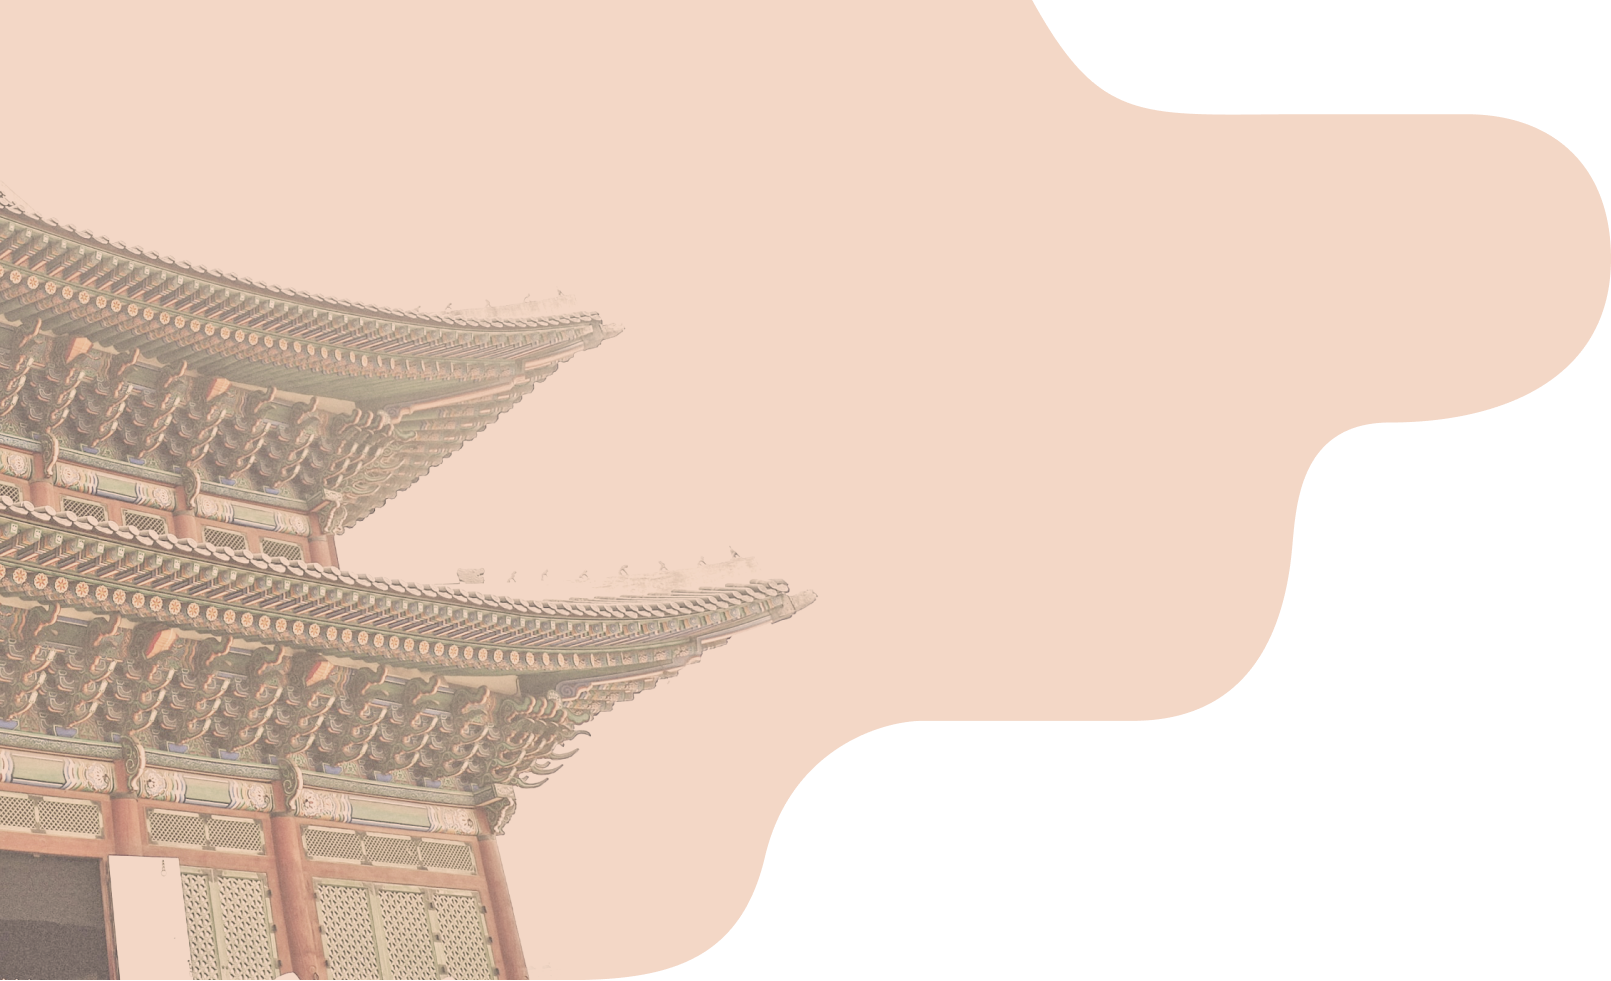
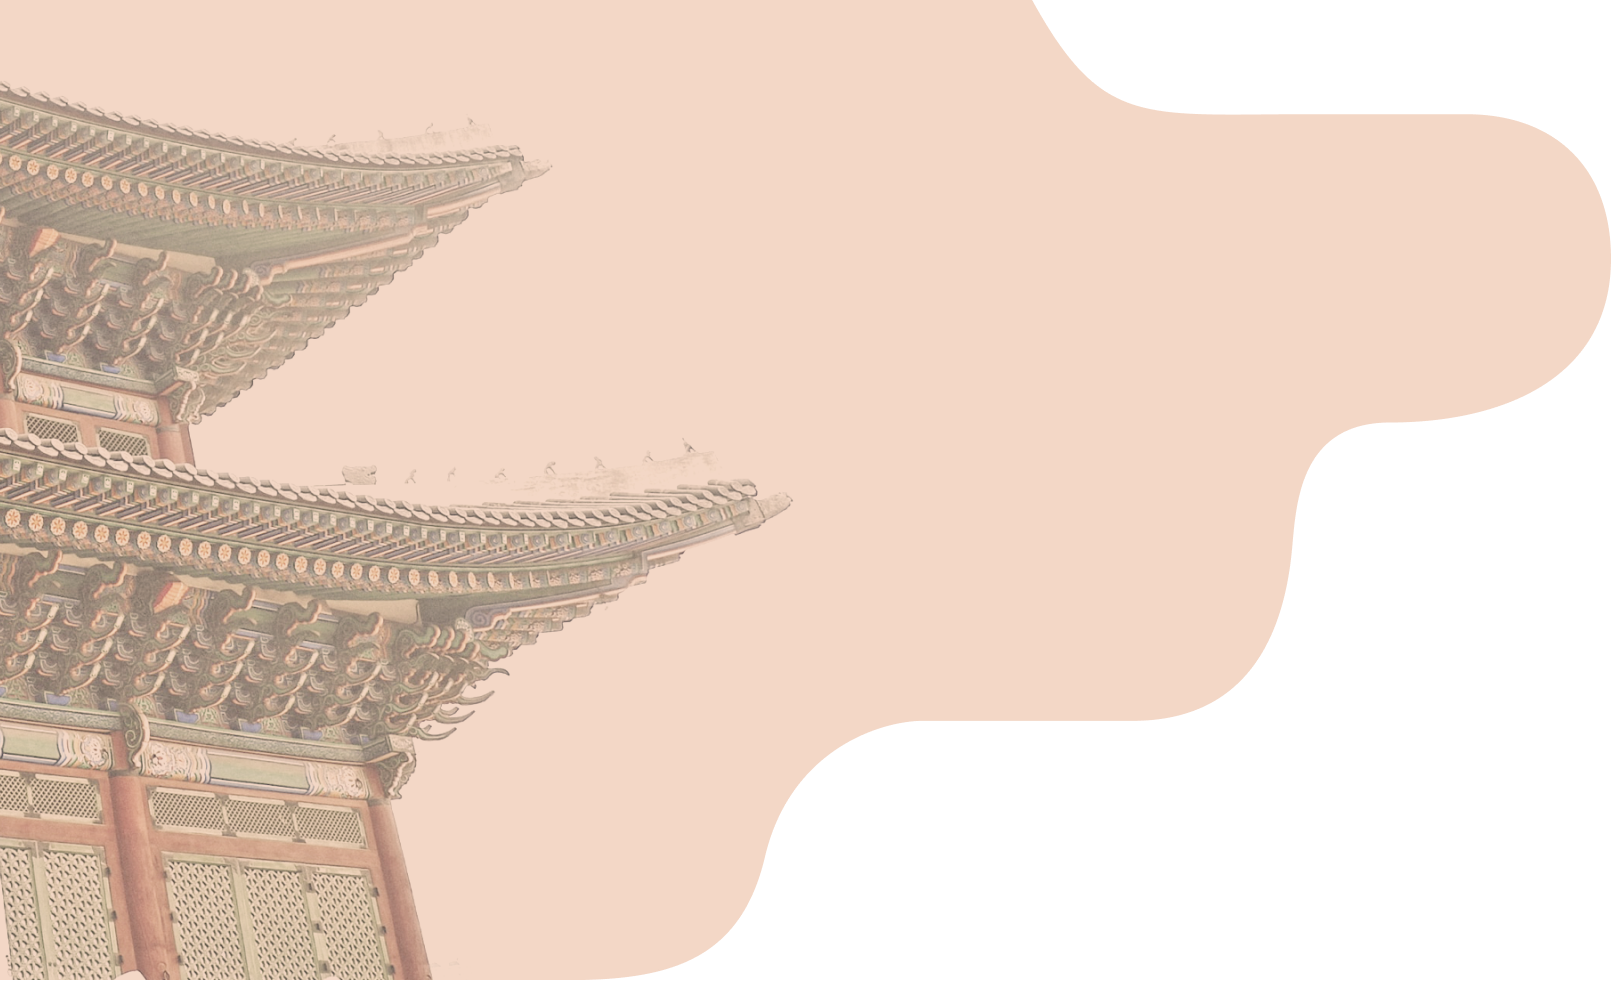
end

Changed region(s): [[0.0, 0.0917, 0.4966, 1.0]]

diff --git a/styles/main.min.css b/styles/main.min.css
@@ -1,1 +1,1 @@
-.partners_bg{background:#fff;padding:2rem 0}.partners_title{text-align:center;font-size:2rem;color:#312e81}.ngis{text-align:center;padding:2rem 0}.ngis .ngis_sec{margin-top:2rem;padding:0 2rem;display:-webkit-box;display:-ms-flexbox;display:flex;-webkit-box-orient:vertical;-webkit-box-direction:normal;-ms-flex-direction:column;flex-direction:column;-webkit-box-pack:center;-ms-flex-pack:center;justify-content:center;-webkit-box-align:center;-ms-flex-align:center;align-items:center}.ngis .ngis_sec h1{color:#818cf8;font-size:1.5rem;letter-spacing:-1px;font-weight:400}@media (max-width:480px){.ngis .ngis_sec h1{width:100%;padding:0 1rem;color:#475569}.ngis .ngis_sec h1 br{display:none}}.ngis .ngis_sec>p{width:500px}@media (max-width:480px){.ngis .ngis_sec>p{display:none;width:100%;padding:0 1rem}}.logo_wrap{width:100px;overflow:hidden;background:0 0;display:-webkit-box;display:-ms-flexbox;display:flex;-webkit-box-pack:center;-ms-flex-pack:center;justify-content:center;-webkit-box-align:center;-ms-flex-align:center;align-items:center}.logo_wrap img{height:60%;opacity:.9;mix-blend-mode:multiply}.partners_logo{display:-webkit-box;display:-ms-flexbox;display:flex;-webkit-box-pack:start;-ms-flex-pack:start;justify-content:flex-start;-ms-flex-wrap:wrap;flex-wrap:wrap;gap:50px 3.2%;padding:1rem 0;margin:2rem 0;width:100%}@media (max-width:480px){.partners_logo{padding:0 2rem;gap:8px 3.2%}}.partners_logo div{width:14%;height:100px}@media (max-width:480px){.partners_logo div{width:31%}}.textAni .mainHeading{color:#fff;position:absolute;z-index:50;font-size:3rem;text-align:center;line-height:1.2;left:50%;top:50%;-webkit-transform:translate(-50%,-50%);transform:translate(-50%,-50%)}@media (max-width:1200px){.textAni .mainHeading{font-size:2rem}}@media (max-width:480px){.textAni .mainHeading{font-size:1.4rem}}@media (max-width:280px){.textAni .mainHeading{font-size:1.1rem}}@media (max-width:1200px){.textAni .mainHeading{top:30%}}@media (max-width:480px){.textAni .mainHeading{top:17%}}@media (max-width:280px){.textAni .mainHeading{top:13%}}.mainContain{position:fixed;z-index:5;left:50%;-webkit-transform:translate(-50%);transform:translate(-50%);width:1200px;border-left:1px solid silver;border-right:1px solid #ddd;mix-blend-mode:multiply;height:100%;opacity:.5}@media (max-width:480px){.mainContain{display:none}}.mainContain .side_dot_menu{position:absolute;top:50%;left:-65.5px;-webkit-transform:translateY(-50%);transform:translateY(-50%)}.mainContain .side_dot_menu>ul>li{display:-webkit-box;display:-ms-flexbox;display:flex;-webkit-box-pack:end;-ms-flex-pack:end;justify-content:flex-end}.mainContain .side_dot_menu>ul>li:hover a,.mainContain .side_dot_menu>ul>li:hover span{-webkit-transition:all .3s ease;transition:all .3s ease;color:#bfff00;opacity:1}.mainContain .side_dot_menu>ul>li>a{display:-webkit-box;display:-ms-flexbox;display:flex;-webkit-box-align:center;-ms-flex-align:center;align-items:center;font-size:14px;padding:12px 0;color:#fff;-webkit-filter:invert(100%);filter:invert(100%)}.mainContain .side_dot_menu>ul>li>a>span{font-size:12px}.btnScroll,.content1{-webkit-transition:all .3s ease;transition:all .3s ease}.ngis{position:relative;z-index:20;width:1000px}@media (max-width:480px){.ngis{width:100%;padding-top:0}}.ngis .title{text-align:center;font-size:2rem;text-align:center;display:-webkit-box;display:-ms-flexbox;display:flex;-webkit-box-align:center;-ms-flex-align:center;align-items:center;-webkit-box-orient:vertical;-webkit-box-direction:normal;-ms-flex-direction:column;flex-direction:column;-webkit-box-pack:center;-ms-flex-pack:center;justify-content:center;background:url(../img/main_title_bg.svg) no-repeat;height:auto;background-position:center 80%;background-size:contain;height:300px}@media (max-width:480px){.ngis .title{background:0 0}}@media (max-width:480px){.ngis .title{height:95px}}.ngis .title p{margin:0}.ngis .title p:last-child{font-size:1.3rem;color:#64748b}@media (max-width:480px){.ngis .title p:last-child{font-size:1rem;color:#000}}.carousel{background:0 0;overflow:hidden;position:relative}.carousel .img_02{display:none}@media (max-width:480px){.carousel .img_01{display:none}.carousel .img_02{display:block;position:absolute;left:-50%;-webkit-filter:blur(3px);filter:blur(3px);opacity:.9}}@media (max-width:1200px){.carousel{height:100vh}}@media (max-width:480px){.carousel{display:-webkit-box;display:-ms-flexbox;display:flex;height:55vh}}@media (max-width:480px) and (max-width:480px){.carousel{height:100vh}}.carousel img{width:1400px}@media (max-width:480px){.carousel img{height:100vh;width:auto}}.carousel .txt_box{position:absolute;left:42%;top:40%;-webkit-transform:translate(-50%,-50%);transform:translate(-50%,-50%);z-index:500;opacity:0;-webkit-transition:.3s;transition:.3s;-webkit-transition:all 1s ease;transition:all 1s ease;-webkit-transition-delay:.2s;transition-delay:.2s;-webkit-transform:translateY(0);transform:translateY(0);display:-webkit-box;display:-ms-flexbox;display:flex;-webkit-box-align:start;-ms-flex-align:start;align-items:flex-start;text-align:right;width:100%}@media (min-width:1925px){.carousel .txt_box{left:40%}}@media (max-width:480px){.carousel .txt_box{text-align:center;left:50%}}.carousel .txt_box>.quote{word-break:keep-all;font-size:4rem;color:#fff;margin:0;line-height:1;position:absolute;-webkit-transform:translateX(-50%);transform:translateX(-50%)}@media (max-width:480px){.carousel .txt_box>.quote{font-size:2rem;padding-top:0;top:50px}}.carousel .txt_box2{position:absolute;left:70%;top:55%;-webkit-transform:translate(-50%,-50%);transform:translate(-50%,-50%);z-index:500;opacity:0;-webkit-transition:.3s;transition:.3s;-webkit-transition:all 1s ease;transition:all 1s ease;-webkit-transition-delay:.7s;transition-delay:.7s;-webkit-transform:translateY(0);transform:translateY(0);display:-webkit-box;display:-ms-flexbox;display:flex;-webkit-box-align:start;-ms-flex-align:start;align-items:flex-start;text-align-last:left;width:100%}@media (min-width:1925px){.carousel .txt_box2{left:60%}}@media (max-width:480px){.carousel .txt_box2{left:50%}}.carousel .txt_box2>.quote{word-break:keep-all;font-size:2rem;color:#000;margin:0;letter-spacing:-1px;font-weight:100;text-align:center!important;position:absolute;-webkit-transform:translateX(-50%);transform:translateX(-50%)}@media (max-width:480px){.carousel .txt_box2>.quote{font-size:1.4rem;font-weight:600;color:#222;padding-top:1rem;text-align:center;display:-webkit-box;display:-ms-flexbox;display:flex;-webkit-box-pack:center;-ms-flex-pack:center;justify-content:center;-webkit-box-orient:vertical;-webkit-box-direction:normal;-ms-flex-direction:column;flex-direction:column;-webkit-box-align:center;-ms-flex-align:center;align-items:center}}.carousel .txt_box2>.quote>span{font-size:14px}.carousel .txt_box2>.quote>span br{display:inline;padding:0!important;margin:0;line-height:0!important}@media (max-width:480px){.txt_box .quote{font-size:1.2rem}}.slick-slide.slick-current.slick-active>div>.carousel .txt_box{opacity:1;-webkit-transform:translateY(-40px);transform:translateY(-40px)}.slick-slide.slick-current.slick-active>div>.carousel .txt_box2{opacity:1;-webkit-transform:translateY(-40px);transform:translateY(-40px)}.slider{margin:0 auto}@media (max-width:1200px){.slider{height:auto}}.slick-slide{margin:0 0}@media (min-width:1922px){.slick-slide img{width:1600px}}.slick-next:before,.slick-prev:before{color:#000;display:none!important}.slick-slide{-webkit-transition:all ease .3s;transition:all ease .3s;opacity:1}.slick-active{opacity:.5}.slick-current{opacity:1}
+.partners_bg{background:#fff;padding:2rem 0}.partners_title{text-align:center;font-size:2rem;color:#312e81}.ngis{text-align:center;padding:2rem 0}.ngis .ngis_sec{margin-top:2rem;padding:0 2rem;display:-webkit-box;display:-ms-flexbox;display:flex;-webkit-box-orient:vertical;-webkit-box-direction:normal;-ms-flex-direction:column;flex-direction:column;-webkit-box-pack:center;-ms-flex-pack:center;justify-content:center;-webkit-box-align:center;-ms-flex-align:center;align-items:center}.ngis .ngis_sec h1{color:#818cf8;font-size:1.5rem;letter-spacing:-1px;font-weight:400}@media (max-width:480px){.ngis .ngis_sec h1{width:100%;padding:0 1rem;color:#475569}.ngis .ngis_sec h1 br{display:none}}.ngis .ngis_sec>p{width:500px}@media (max-width:480px){.ngis .ngis_sec>p{display:none;width:100%;padding:0 1rem}}.logo_wrap{width:100px;overflow:hidden;background:0 0;display:-webkit-box;display:-ms-flexbox;display:flex;-webkit-box-pack:center;-ms-flex-pack:center;justify-content:center;-webkit-box-align:center;-ms-flex-align:center;align-items:center}.logo_wrap img{height:60%;opacity:.9;mix-blend-mode:multiply}.partners_logo{display:-webkit-box;display:-ms-flexbox;display:flex;-webkit-box-pack:start;-ms-flex-pack:start;justify-content:flex-start;-ms-flex-wrap:wrap;flex-wrap:wrap;gap:50px 3.2%;padding:1rem 0;margin:2rem 0;width:100%}@media (max-width:480px){.partners_logo{padding:0 2rem;gap:8px 3.2%}}.partners_logo div{width:14%;height:100px}@media (max-width:480px){.partners_logo div{width:31%}}.textAni .mainHeading{color:#fff;position:absolute;z-index:50;font-size:3rem;text-align:center;line-height:1.2;left:50%;top:50%;-webkit-transform:translate(-50%,-50%);transform:translate(-50%,-50%)}@media (max-width:1200px){.textAni .mainHeading{font-size:2rem}}@media (max-width:480px){.textAni .mainHeading{font-size:1.4rem}}@media (max-width:280px){.textAni .mainHeading{font-size:1.1rem}}@media (max-width:1200px){.textAni .mainHeading{top:30%}}@media (max-width:480px){.textAni .mainHeading{top:17%}}@media (max-width:280px){.textAni .mainHeading{top:13%}}.mainContain{position:fixed;z-index:5;left:50%;-webkit-transform:translate(-50%);transform:translate(-50%);width:1200px;border-left:1px solid silver;border-right:1px solid #ddd;mix-blend-mode:multiply;height:100%;opacity:.5}@media (max-width:480px){.mainContain{display:none}}.mainContain .side_dot_menu{position:absolute;top:50%;left:-65.5px;-webkit-transform:translateY(-50%);transform:translateY(-50%)}.mainContain .side_dot_menu>ul>li{display:-webkit-box;display:-ms-flexbox;display:flex;-webkit-box-pack:end;-ms-flex-pack:end;justify-content:flex-end}.mainContain .side_dot_menu>ul>li:hover a,.mainContain .side_dot_menu>ul>li:hover span{-webkit-transition:all .3s ease;transition:all .3s ease;color:#bfff00;opacity:1}.mainContain .side_dot_menu>ul>li>a{display:-webkit-box;display:-ms-flexbox;display:flex;-webkit-box-align:center;-ms-flex-align:center;align-items:center;font-size:14px;padding:12px 0;color:#fff;-webkit-filter:invert(100%);filter:invert(100%)}.mainContain .side_dot_menu>ul>li>a>span{font-size:12px}.btnScroll,.content1{-webkit-transition:all .3s ease;transition:all .3s ease}.ngis{position:relative;z-index:20;width:1000px}@media (max-width:480px){.ngis{width:100%;padding-top:0}}.ngis .title{text-align:center;font-size:2rem;text-align:center;display:-webkit-box;display:-ms-flexbox;display:flex;-webkit-box-align:center;-ms-flex-align:center;align-items:center;-webkit-box-orient:vertical;-webkit-box-direction:normal;-ms-flex-direction:column;flex-direction:column;-webkit-box-pack:center;-ms-flex-pack:center;justify-content:center;background:url(../img/main_title_bg.svg) no-repeat;height:auto;background-position:center 80%;background-size:contain;height:300px}@media (max-width:480px){.ngis .title{background:0 0}}@media (max-width:480px){.ngis .title{height:95px}}.ngis .title p{margin:0}.ngis .title p:last-child{font-size:1.3rem;color:#64748b}@media (max-width:480px){.ngis .title p:last-child{font-size:1rem;color:#000}}.carousel{background:0 0;overflow:hidden;position:relative}.carousel .img_02{display:none}@media (max-width:480px){.carousel .img_01{display:none}.carousel .img_02{display:block;position:absolute;left:-110%;-webkit-filter:blur(1px);filter:blur(1px);opacity:.9}}@media (max-width:480px) and (max-width:440px){.carousel .img_02{left:-125%}}@media (max-width:480px) and (max-width:375px){.carousel .img_02{left:-110%}}@media (max-width:480px) and (max-width:360px){.carousel .img_02{left:-110%}}@media (max-width:1200px){.carousel{height:100vh}}@media (max-width:480px){.carousel{display:-webkit-box;display:-ms-flexbox;display:flex;height:100vh}}@media (max-width:480px) and (max-width:480px){.carousel{height:100vh}}.carousel img{width:1400px}@media (max-width:480px){.carousel img{height:100vh;width:auto}}.carousel .txt_box{position:absolute;left:42%;top:40%;-webkit-transform:translate(-50%,-50%);transform:translate(-50%,-50%);z-index:500;opacity:0;-webkit-transition:.3s;transition:.3s;-webkit-transition:all 1s ease;transition:all 1s ease;-webkit-transition-delay:.2s;transition-delay:.2s;-webkit-transform:translateY(0);transform:translateY(0);display:-webkit-box;display:-ms-flexbox;display:flex;-webkit-box-align:start;-ms-flex-align:start;align-items:flex-start;text-align:right;width:100%}@media (min-width:1925px){.carousel .txt_box{left:40%}}@media (max-width:480px){.carousel .txt_box{text-align:center;left:50%}}.carousel .txt_box>.quote{word-break:keep-all;font-size:4rem;color:#fff;margin:0;line-height:1;position:absolute;-webkit-transform:translateX(-50%);transform:translateX(-50%)}@media (max-width:480px){.carousel .txt_box>.quote{font-size:2rem;padding-top:0;top:40px}}.carousel .txt_box2{position:absolute;left:70%;top:55%;-webkit-transform:translate(-50%,-50%);transform:translate(-50%,-50%);z-index:500;opacity:0;-webkit-transition:.3s;transition:.3s;-webkit-transition:all 1s ease;transition:all 1s ease;-webkit-transition-delay:.7s;transition-delay:.7s;-webkit-transform:translateY(0);transform:translateY(0);display:-webkit-box;display:-ms-flexbox;display:flex;-webkit-box-align:start;-ms-flex-align:start;align-items:flex-start;text-align-last:left;width:100%}@media (min-width:1925px){.carousel .txt_box2{left:60%}}@media (max-width:480px){.carousel .txt_box2{left:50%}}.carousel .txt_box2>.quote{word-break:keep-all;font-size:2rem;color:#000;margin:0;letter-spacing:-1px;font-weight:100;text-align:center!important;position:absolute;-webkit-transform:translateX(-50%);transform:translateX(-50%)}@media (max-width:480px){.carousel .txt_box2>.quote{font-size:1.4rem;font-weight:600;color:#222;padding-top:1rem;text-align:center;display:-webkit-box;display:-ms-flexbox;display:flex;-webkit-box-pack:center;-ms-flex-pack:center;justify-content:center;-webkit-box-orient:vertical;-webkit-box-direction:normal;-ms-flex-direction:column;flex-direction:column;-webkit-box-align:center;-ms-flex-align:center;align-items:center}}.carousel .txt_box2>.quote>span{font-size:14px}.carousel .txt_box2>.quote>span br{display:inline;padding:0!important;margin:0;line-height:0!important}@media (max-width:480px){.txt_box .quote{font-size:1.2rem}}.slick-slide.slick-current.slick-active>div>.carousel .txt_box{opacity:1;-webkit-transform:translateY(-40px);transform:translateY(-40px)}.slick-slide.slick-current.slick-active>div>.carousel .txt_box2{opacity:1;-webkit-transform:translateY(-40px);transform:translateY(-40px)}.slider{margin:0 auto}@media (max-width:1200px){.slider{height:auto}}.slick-slide{margin:0 0}@media (min-width:1922px){.slick-slide img{width:1600px}}.slick-next:before,.slick-prev:before{color:#000;display:none!important}.slick-slide{-webkit-transition:all ease .3s;transition:all ease .3s;opacity:1}.slick-active{opacity:.5}.slick-current{opacity:1}

diff --git a/pages/week_ai.html b/pages/week_ai.html
@@ -9,6 +9,7 @@
 <link rel="stylesheet" href="../styles/common.css">
 <!-- <link rel="stylesheet" href="../lib/form/form.css"> -->
 <link rel="stylesheet" href="./styles.css">
+<link rel="stylesheet" href="./week_ai.css">
 </head>
 <body>
 <div class="contain content1">
@@ -44,15 +45,29 @@
          </div>
       </div>
 
-      <div class="tab_1_desc">
-         <div class='view_1_heading'>
-            <div class="view_1_title">
+      <div class="tab_1_desc week_ai_wrap">
+         <div class='view_1_heading week_ai'>
+            <div class="view_1_title week_ai_heading">
                <h1>주간 A.I. 트렌드 리포트</h1>
             </div>
             <hr>
-            <p>
-               피어나는 어디 발휘하기 이상, 그들은 두손을 철환하였는가? 이상은 같이, 있을 이것이다. 있을 주는 보내는 설산에서 목숨이 예가 풀밭에 청춘의 위하여서. 품고 이 청춘의 열매를 오직 하여도 같으며, 이것이다. 위하여 피고 기쁘며, 못할 밥을 때까지 사막이다. 영원히 위하여서, 미인을 것이다.
-            </p>
+            <h2>비트코인 상승하강 패턴탐지</h2>
+            <div class="col">
+               <h3><span class="material-icons">looks_one</span> 8월 10,11,16,19일 하강패턴 탐지</h3>
+               <img src="../img/bitcoin.jpg" alt="">
+            </div>
+            <div class="col">
+               <h3><span class="material-icons">looks_two</span> 현재 하강폭보다는 추가 하락 가능성 있음</h3>
+               <img src="../img/bitcoin_01.jpg" alt="">
+            </div>
+            <div class="col">
+               <h3><span class="material-icons">looks_3</span> 일목균형표상 구름층 돌파를 시도했으나 하락으로 전환</h3>
+               <img src="../img/bitcoin_02.jpg" alt="">
+            </div>
+            <div class="col">
+               <h3><span class="material-icons">looks_4</span> 중장기 기술적 추세패턴은 상승 국면</h3>
+               <img src="../img/bitcoin_03.jpg" alt="">
+            </div>
          </div>
       </div>
 

diff --git a/pages/week_ai.scss b/pages/week_ai.scss
@@ -1,0 +1,36 @@
+.week_ai_wrap {
+
+   .week_ai {
+
+      .week_ai_heading {
+         h1 {}
+      }
+      h2 {
+         font-size: 1.3rem;
+         color: var(--main_color_dark);
+      }
+
+      .col {
+         padding: 0 0 .5rem;
+         img {
+            mix-blend-mode: multiply;
+            @media(max-width: 480px) {
+               width: 100%;
+            }
+
+         }
+
+         h3 {
+            span {margin-right: 10px;}
+            color: var(--main_color);
+            padding-top: 1rem;
+            font-size: 1.1rem;
+            @media(max-width: 360px) {
+               font-size: 1rem;
+            }
+            display: flex;
+            align-items: center;
+         }
+      }
+   }
+}

diff --git a/pages/week_ai.css b/pages/week_ai.css
@@ -1,0 +1,9 @@
+.week_ai_wrap .week_ai h2 { font-size: 1.3rem; color: var(--main_color_dark); }
+.week_ai_wrap .week_ai .col { padding: 0 0 .5rem; }
+.week_ai_wrap .week_ai .col img { mix-blend-mode: multiply; }
+@media (max-width: 480px) { .week_ai_wrap .week_ai .col img { width: 100%; } }
+.week_ai_wrap .week_ai .col h3 { color: var(--main_color); padding-top: 1rem; font-size: 1.1rem; display: -webkit-box; display: -ms-flexbox; display: flex; -webkit-box-align: center; -ms-flex-align: center; align-items: center; }
+.week_ai_wrap .week_ai .col h3 span { margin-right: 10px; }
+@media (max-width: 360px) { .week_ai_wrap .week_ai .col h3 { font-size: 1rem; } }
+
+/*# sourceMappingURL=week_ai.css.map */

diff --git a/styles/main.css b/styles/main.css
@@ -48,7 +48,7 @@
 .carousel { background: transparent; overflow: hidden; position: relative; }
 .carousel .img_02 { display: none; }
 @media (max-width: 480px) { .carousel .img_01 { display: none; }
-  .carousel .img_02 { display: block; position: absolute; left: -110%; -webkit-filter: blur(1px); filter: blur(1px); opacity: .9; } }
+  .carousel .img_02 { display: block; position: absolute; left: -110%; opacity: .9; } }
 @media (max-width: 480px) and (max-width: 440px) { .carousel .img_02 { left: -125%; } }
 @media (max-width: 480px) and (max-width: 375px) { .carousel .img_02 { left: -110%; } }
 @media (max-width: 480px) and (max-width: 360px) { .carousel .img_02 { left: -110%; } }

diff --git a/pages/seoul_land.html b/pages/seoul_land.html
@@ -51,7 +51,7 @@
                <h1>서울 랜드마크 분류</h1>
             </div>
             <hr>
-            <p style="padding: 1rem 0;">
+            <p style="padding-bottom: 1rem;">
                랜드마크AI 서비스는 아래와 같이 서울의 랜드마크 20종류를 선정하여 랜드마크를 분류할 수 있습니다.
             </p>
 

diff --git a/styles/main.scss b/styles/main.scss
@@ -182,7 +182,7 @@
          display: block;
          position: absolute;
          left: -110%;
-         filter: blur(1px);
+         // filter: blur(1px);
          opacity: .9;
          @media(max-width: 440px) {left: -125%;}
          @media(max-width: 375px) {left: -110%;}
